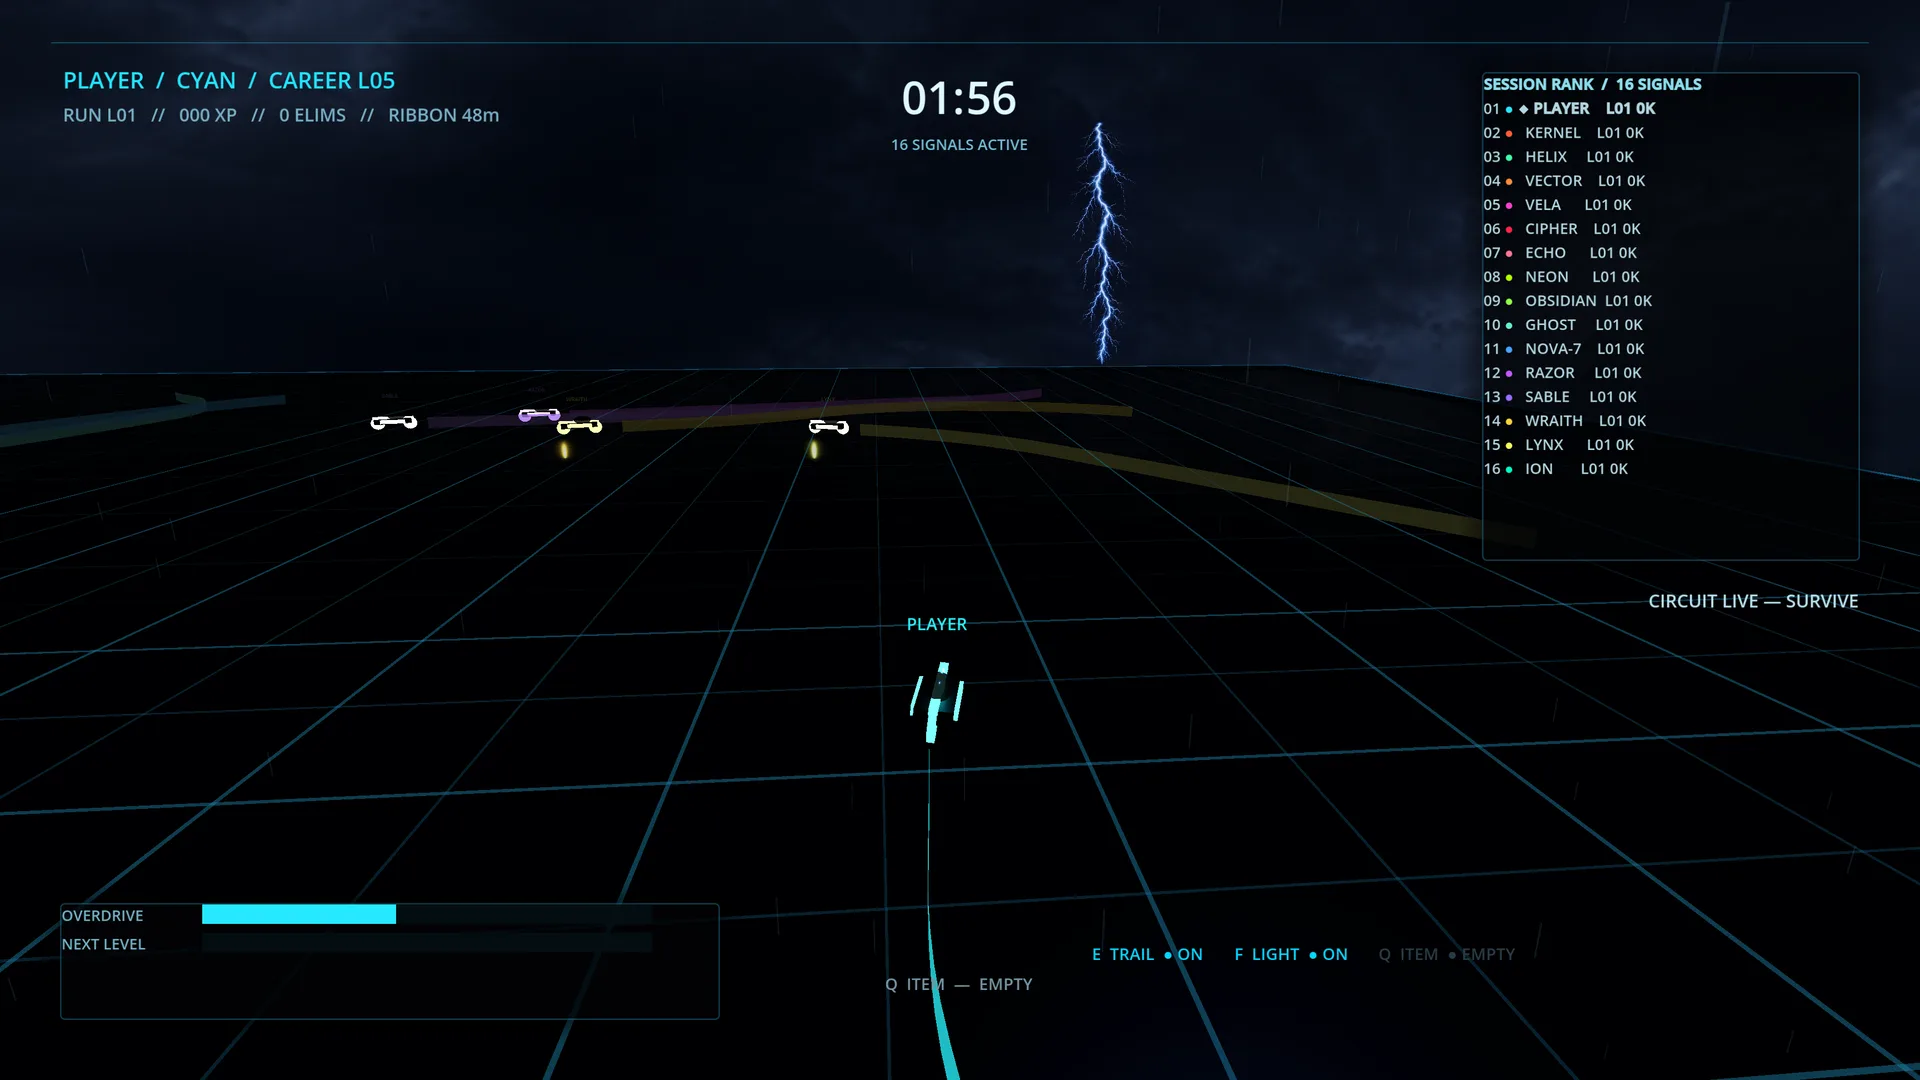
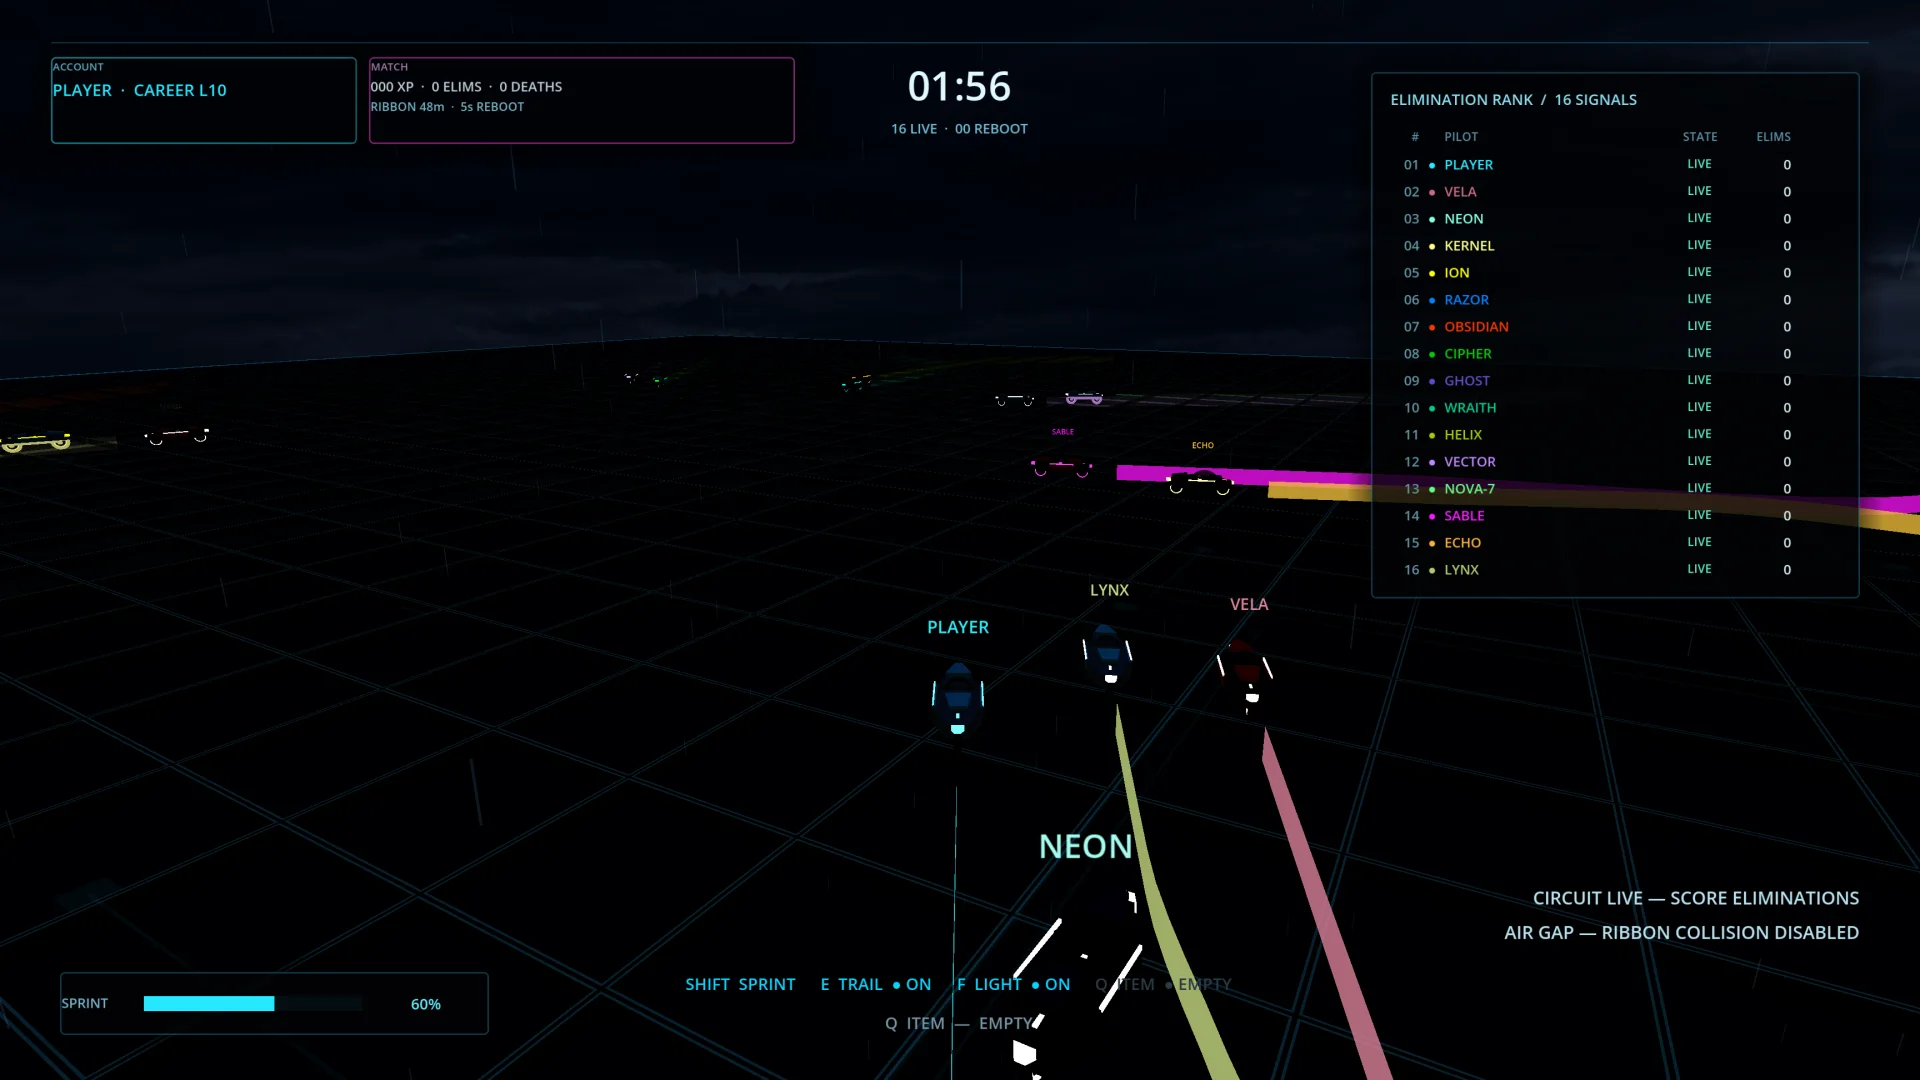
Refresh landing for Void0 0.16.0

diff --git a/index.html b/index.html
@@ -5,13 +5,13 @@
     <meta name="viewport" content="width=device-width, initial-scale=1.0" />
     <meta
       name="description"
-      content="Outrun sixteen signals on a suspended glass grid and survive the storm in Void0."
+      content="Score eliminations, grow your ribbon, and rule a collapsing sixteen-signal Circuit in Void0."
     />
     <meta name="theme-color" content="#02060d" />
     <meta property="og:title" content="Void0" />
     <meta
       property="og:description"
-      content="Sixteen signals enter the grid. One remains."
+      content="Two minutes. Sixteen signals. Most eliminations wins."
     />
     <meta property="og:type" content="website" />
     <meta property="og:url" content="https://void0zero.github.io/" />
@@ -21,7 +21,7 @@
     />
     <link rel="canonical" href="https://void0zero.github.io/" />
     <link rel="icon" type="image/svg+xml" href="/icon.svg" />
-    <title>Void0 — Outlive the Grid</title>
+    <title>Void0 — Rule the Circuit</title>
   </head>
   <body>
     <a class="skip-link" href="#main">Skip to content</a>
@@ -45,13 +45,14 @@
         <div class="storm-flash" aria-hidden="true"></div>
         <div class="hero-grid" aria-hidden="true"></div>
         <div class="hero-content">
-          <p class="eyebrow reveal">Survival protocol // signal 01</p>
+          <p class="eyebrow reveal">Elimination protocol // v0.16.0</p>
           <h1 id="hero-title" class="wordmark reveal reveal-delay-1" aria-label="Void0">
             <span aria-hidden="true">Void</span><span class="slashed-zero" aria-hidden="true">0</span>
           </h1>
           <p class="hero-copy reveal reveal-delay-2">
             Every turn leaves a weapon behind. Break rival signals, grow your
-            ribbon, and remain active when the storm drives the grid to zero.
+            ribbon, and own the highest elimination score before the Circuit
+            forces tied leaders into the void.
           </p>
           <div class="hero-actions reveal reveal-delay-3">
             <a class="button button-primary" href="#downloads">
@@ -64,8 +65,8 @@
           </div>
           <div class="protocol-strip reveal reveal-delay-3" aria-label="Game facts">
             <span><strong>16</strong> signals</span>
-            <span><strong>02:00</strong> to zero</span>
-            <span><strong>01</strong> survivor</span>
+            <span><strong>02:00</strong> regulation</span>
+            <span><strong>05s</strong> reboot</span>
           </div>
         </div>
         <a class="scroll-cue" href="#game" aria-label="Explore Void0">
@@ -75,16 +76,16 @@
       </section>
 
       <section class="manifesto section" id="game" aria-labelledby="game-title">
-        <div class="section-code" aria-hidden="true">01 / SURVIVE</div>
+        <div class="section-code" aria-hidden="true">01 / ELIMINATE</div>
         <div class="section-heading reveal">
           <p class="eyebrow">Your movement becomes territory</p>
           <h2 id="game-title">Write danger<br />into the glass.</h2>
         </div>
         <p class="section-copy reveal">
-          Sixteen riders launch from the perimeter of a translucent arena
-          suspended over a bottomless void. Your light ribbon is both history
-          and threat: every rival you erase makes it longer, brighter, and
-          worth more to whoever hunts you next.
+          Sixteen riders launch from the perimeter of a translucent arena over
+          a bottomless void. Every rival you erase makes your ribbon longer,
+          brighter, and more valuable. A defeated signal reboots after five
+          seconds, but your elimination score never resets.
         </p>
 
         <figure class="cinematic-frame reveal">
@@ -97,6 +98,35 @@
           />
           <figcaption><span>Live telemetry</span> Ribbon growth // 16 signals</figcaption>
         </figure>
+      </section>
+
+      <section class="release-panel section" aria-labelledby="release-title">
+        <div class="section-heading reveal">
+          <p class="eyebrow">Version 0.16.0 // new rules</p>
+          <h2 id="release-title">The Circuit remembers every hit.</h2>
+        </div>
+        <div class="release-grid">
+          <article class="release-card reveal">
+            <strong>05s</strong>
+            <h3>Signal reboot</h3>
+            <p>Return from the perimeter with your eliminations, XP, deaths, and ribbon growth intact.</p>
+          </article>
+          <article class="release-card reveal reveal-delay-1">
+            <strong>1st</strong>
+            <h3>Highest score wins</h3>
+            <p>Regulation ends at two minutes. Only riders tied for the elimination lead continue.</p>
+          </article>
+          <article class="release-card reveal reveal-delay-2">
+            <strong>∞</strong>
+            <h3>Signal Garage</h3>
+            <p>Equip the Voidrunner or Cosmic Pixel Cat without changing competitive handling or collision.</p>
+          </article>
+          <article class="release-card reveal">
+            <strong>LIVE</strong>
+            <h3>Animated title</h3>
+            <p>Six cosmetic signals race, jump, lean, and write ribbons behind registration.</p>
+          </article>
+        </div>
       </section>
 
       <section class="systems section" id="systems" aria-labelledby="systems-title">
@@ -168,9 +198,9 @@
           <p class="eyebrow">Collapse protocol // -00:00</p>
           <h2 id="zero-title">When the grid falls away.</h2>
           <p>
-            At 02:00 the clock turns negative. Glass cells rise and digitize
-            faster every second until no floor remains. The last active signal—or
-            the last rider to cross into the void—wins.
+            If the elimination lead is tied at 02:00, only those leaders enter
+            sudden death and reboots stop. Glass cells rise and digitize faster
+            every second until one leader remains—or falls last into the void.
           </p>
           <div class="zero-meter" aria-hidden="true">
             <span>1,849 cells</span>
@@ -186,23 +216,23 @@
             <p class="eyebrow">Circuit archive</p>
             <h2 id="gallery-title">Signals from the void.</h2>
           </div>
-          <p>Lobby formation, live combat, and digital erasure beneath the storm.</p>
+          <p>Live combat, signal reboot, and digital erasure beneath the storm.</p>
         </div>
         <div class="gallery-grid">
           <button class="gallery-item gallery-item-wide reveal" type="button" data-lightbox>
             <img
-              src="/images/lobby.webp"
-              alt="The sixteen-slot Session Lobby"
+              src="/images/respawn.webp"
+              alt="A destroyed signal waiting through its five-second reboot"
               width="1920"
               height="1080"
               loading="lazy"
             />
-            <span>Session formation</span>
+            <span>Signal reboot</span>
           </button>
           <button class="gallery-item reveal reveal-delay-1" type="button" data-lightbox>
             <img
               src="/images/title.webp"
-              alt="Void0 registration screen"
+              alt="Void0 registration screen with a live attract match in the background"
               width="1920"
               height="1080"
               loading="lazy"
@@ -311,7 +341,7 @@
         <img src="/icon.svg" alt="" aria-hidden="true" />
         <span class="wordmark" aria-hidden="true">Void<span class="slashed-zero">0</span></span>
       </a>
-      <p>Outrun the light. Outlive the grid.</p>
+      <p>Outride the light. Rule the Circuit.</p>
       <p class="footer-credit">
         Made with <span aria-label="love">◆</span> by
         <a href="https://www.romajs.dev/support">Romualdo Santos</a>

diff --git a/src/style.css b/src/style.css
@@ -156,8 +156,21 @@ img {
 }
 
 .slashed-zero {
+  position: relative;
   display: inline-block;
-  font-family: "Anonymous Pro", monospace;
+  font-family: inherit;
+}
+
+.slashed-zero::after {
+  position: absolute;
+  top: 48%;
+  left: 50%;
+  width: clamp(1px, 0.025em, 4px);
+  height: 0.56em;
+  background: currentColor;
+  content: "";
+  pointer-events: none;
+  transform: translate(-50%, -50%) rotate(32deg);
 }
 
 .brand .slashed-zero {
@@ -304,6 +317,11 @@ img {
   color: transparent;
   -webkit-text-stroke: 1px var(--magenta);
   text-shadow: 0 0 0.28em rgba(255, 63, 210, 0.22);
+}
+
+.hero h1 .slashed-zero::after {
+  background: var(--magenta);
+  box-shadow: 0 0 0.28em rgba(255, 63, 210, 0.22);
 }
 
 .hero-copy {
@@ -561,6 +579,60 @@ img {
 .cinematic-frame figcaption span {
   margin-right: 0.7rem;
   color: var(--cyan);
+}
+
+.release-panel {
+  background:
+    radial-gradient(circle at 18% 8%, rgba(38, 233, 255, 0.055), transparent 28rem),
+    radial-gradient(circle at 82% 78%, rgba(255, 63, 210, 0.045), transparent 24rem),
+    #02060b;
+}
+
+.release-panel .section-heading {
+  width: min(58rem, 100%);
+}
+
+.release-grid {
+  display: grid;
+  grid-template-columns: repeat(4, 1fr);
+  margin-top: 4rem;
+  border-top: 1px solid var(--line);
+  border-left: 1px solid var(--line);
+}
+
+.release-card {
+  min-height: 17rem;
+  padding: 2rem;
+  border-right: 1px solid var(--line);
+  border-bottom: 1px solid var(--line);
+  background: linear-gradient(145deg, rgba(38, 233, 255, 0.025), transparent 60%);
+}
+
+.release-card strong {
+  display: block;
+  color: var(--magenta);
+  font-family: var(--display);
+  font-size: clamp(2.4rem, 4vw, 4.6rem);
+  font-weight: 500;
+  line-height: 1;
+  text-shadow: 0 0 1.2rem rgba(255, 63, 210, 0.18);
+}
+
+.release-card h3 {
+  margin: 3.4rem 0 0.8rem;
+  color: #e7fbff;
+  font-family: var(--display);
+  font-size: 1.35rem;
+  font-weight: 500;
+  letter-spacing: 0.04em;
+  text-transform: uppercase;
+}
+
+.release-card p {
+  margin: 0;
+  color: var(--muted);
+  font-size: 0.9rem;
+  line-height: 1.7;
 }
 
 .systems {
@@ -1113,6 +1185,10 @@ footer > p:nth-child(2) {
     grid-template-columns: repeat(2, 1fr);
   }
 
+  .release-grid {
+    grid-template-columns: repeat(2, 1fr);
+  }
+
   .zero-phase {
     grid-template-columns: 1fr;
   }
@@ -1226,6 +1302,10 @@ footer > p:nth-child(2) {
   }
 
   .system-grid {
+    grid-template-columns: 1fr;
+  }
+
+  .release-grid {
     grid-template-columns: 1fr;
   }
 

diff --git a/src/main.js b/src/main.js
@@ -1,4 +1,3 @@
-import "@fontsource/anonymous-pro/latin-400.css";
 import "@fontsource/rajdhani/latin-400.css";
 import "@fontsource/rajdhani/latin-500.css";
 import "@fontsource/rajdhani/latin-600.css";

diff --git a/README.md b/README.md
@@ -7,6 +7,10 @@ the public rolling release tagged `void0-latest` from
 [`romajs/game-downloads`](https://github.com/romajs/game-downloads), then
 connects each platform button to the matching package.
 
+The current presentation tracks Void0 v0.16.0: two-minute elimination
+regulation, five-second signal reboots, tied-leaders sudden death, six stored
+power-ups, the Signal Garage, and the animated title Circuit.
+
 ## Local development
 
 ```bash
